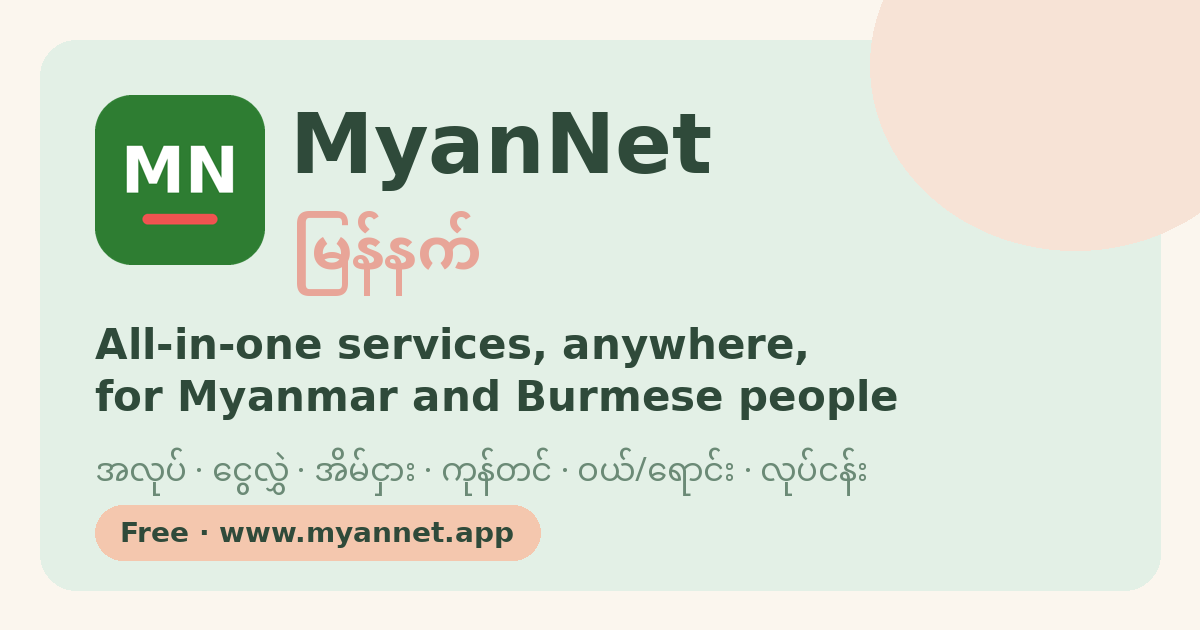
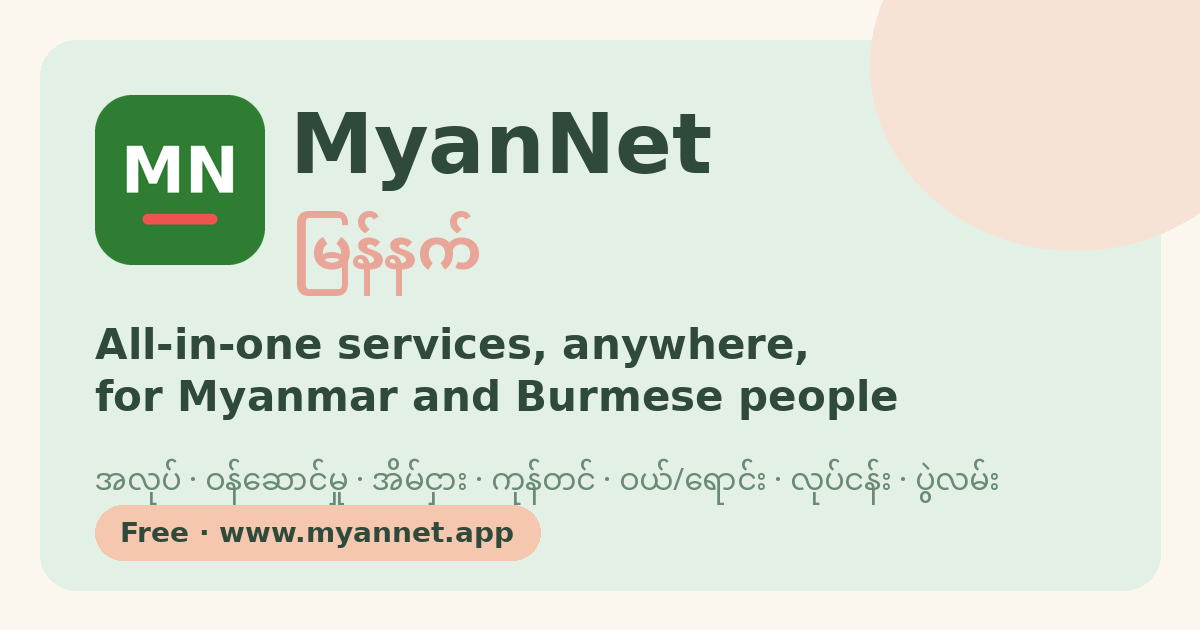
Replace Hundi with Services, add Community/Events, retire kyat rates
- New pillars: services (ဝန်ဆောင်မှု) and events (ပွဲလမ်း); hundi removed
- Rates ticker, board, admin form and /api/rates removed; /rates redirects home
- Preview card and Facebook cover updated

Claude-Session: https://claude.ai/code/session_01Qz7Ga2ARQCafnsXr2KAzox

Changed region(s): [[0.0617, 0.6937, 0.8325, 0.8143]]

diff --git a/app/page.tsx b/app/page.tsx
@@ -13,26 +13,25 @@ import Zayat from "@/components/Zayat";
 import Share from "@/components/Share";
 import Profile from "@/components/Profile";
 import Latest, { NewBanner } from "@/components/Latest";
-import { RatesBoard, RatesTicker } from "@/components/Rates";
 import { THEME } from "@/components/ui";
 import { countryOptions, flag, nameOf } from "@/lib/countries";
 
 const T = {
   en: {
     appName:"MyanNet", appSub:"မြန်နက် · All-in-one services, anywhere, for Myanmar and Burmese people", beta:"BETA",
-    tagline:"The all-in-one platform for Burmese/Myanmar communities worldwide — find work, send money home, rent a room, ship goods, and buy & sell within a trusted community.",
+    tagline:"The all-in-one platform for Burmese/Myanmar communities worldwide — find work, find services, rent a room, ship goods, buy & sell, and share community events — all in one trusted place.",
     vision:"Connecting Myanmar/Burmese communities living and working abroad with their loved ones at home, and vice versa.",
     visionTitle:"🌏 Our Vision", whoTitle:"Who MyanNet Serves",
-    pillars:["Help Wanted","Hundi / Send Money","Rent","Cargo / Hand Carry","Buy / Sell Goods","Businesses"],
-    pillarIcons:["💼","💸","🏠","✈","🛍","🏪"],
-    pillarDesc:["Find work or post openings across all countries","Send money home through trusted community agents","Find or offer housing in the Burmese community","Hand-carry goods between countries — trusted travelers","Buy & sell within the trusted Burmese community","Find Burmese-owned businesses, shops & services"],
-    who:[{e:"🍣",t:"Burmese Sushi Workers",d:"In US restaurants, grocery stores & catering"},{e:"🏭",t:"Factory & Construction Workers",d:"In Thailand, Malaysia, Korea & Japan"},{e:"🏪",t:"Small Business Owners",d:"Restaurants, shops & services in diaspora"},{e:"✈",t:"New Arrivals",d:"Need housing, work & community fast"},{e:"💰",t:"Families Back Home",d:"Receiving remittances from abroad"},{e:"🌏",t:"Cross-Border Travelers",d:"Hand-carrying goods between countries"}],
+    pillars:["Help Wanted","Services","Rent","Cargo / Hand Carry","Buy / Sell Goods","Businesses","Community / Events"],
+    pillarIcons:["💼","🛠","🏠","✈","🛍","🏪","🎉"],
+    pillarDesc:["Find work or post openings across all countries","Translators, documents, tax, phone, travel, repairs & more","Find or offer housing in the Burmese community","Hand-carry goods between countries — trusted travelers","Buy & sell within the trusted Burmese community","Find Burmese-owned businesses, shops & services","Festivals, temple & community events, meetups and classes"],
+    who:[{e:"🍣",t:"Burmese Sushi Workers",d:"In US restaurants, grocery stores & catering"},{e:"🏭",t:"Factory & Construction Workers",d:"In Thailand, Malaysia, Korea & Japan"},{e:"🏪",t:"Small Business Owners",d:"Restaurants, shops & services in diaspora"},{e:"✈",t:"New Arrivals",d:"Need housing, work & community fast"},{e:"💰",t:"Families Back Home",d:"Staying connected with loved ones abroad"},{e:"🌏",t:"Cross-Border Travelers",d:"Hand-carrying goods between countries"}],
     findWork:"Find Work", hireWorkers:"Hire Workers", allPosts:"All", jobsAvail:"🏪 Jobs Available", seekWork:"👷 Seeking Work",
     allRooms:"All", roomsAvail:"🏠 Available", seekRoom:"🔍 Seeking",
     allCargo:"All", canCarry:"✈ Can Carry", needCarry:"📦 Need Carry",
-    postJob:"Post Job", postAgent:"Register as Agent", postRental:"Post Rental", postCarry:"Post Carry Offer", postItem:"Post Item",
+    postJob:"Post Job", postAgent:"Post a Service", postEvent:"Post an Event", postRental:"Post Rental", postCarry:"Post Carry Offer", postItem:"Post Item",
     contactFb:"💬 Contact on Facebook", contactViber:"📱 WhatsApp / Viber", msgSeller:"💬 Message Seller",
-    hundiNotice:"⚠ Community Notice: Hundi is an informal trust-based transfer system widely used by Myanmar migrants. Agents are community-verified. Always use known, reviewed agents. MyanNet does not handle funds directly.",
+    servicesNotice:"🛠 Find Burmese-speaking help — translators, document & form help, tax preparers, phone shops, travel agents, repairs and more. Check reviews and agree on the price first. MyanNet does not handle money.", eventsNotice:"🎉 Festivals, temple and community events, meetups, classes and sports in Myanmar communities abroad. Share your event free.",
     cargoNotice:"✈ Hand Carry Network: Travelers with spare baggage space offer to carry goods between countries. Always meet in person. Community trust is everything.",
     rateCalc:"💱 Quick Rate Calculator", from:"From", amount:"Amount", communityAgents:"🤝 Community Agents",
     example:"📌 Example",examplesNote:"📌 Examples below show what posts look like — they are not real people or businesses. Real community posts appear above.",verified:"✅ Verified", pending:"⏳ Pending", reviews:"reviews", rate:"Rate", fee:"Fee", dailyLimit:"Daily Limit",
@@ -43,24 +42,24 @@ const T = {
     joinFb:"Follow MyanNet on Facebook", comingSoon:"Full posting system coming soon! For now, join our Facebook group:",
     goFb:"🌐 Go to Facebook Group", close:"Close", services:"Services", countries:"Countries", contact:"Contact & Community", privacy:"Privacy Policy", terms:"Terms of Use", about:"About",
     signIn:"Sign in to your account", continueWithFb:"Continue with Facebook", or:"or", phone:"Phone Number", sendOTP:"Send OTP Code", verifyCode:"Verify Code", changePhone:"Change phone number", emailAddr:"Email Address", password:"Password", signingIn:"Signing in…", sending:"Sending…", verifying:"Verifying…", connecting:"Connecting…",
-    iAm:"I am a…", worker:"👷 Worker / Job Seeker", business:"🏪 Business Owner", hundiAgent:"💸 Hundi Agent", other:"🌏 Other", country:"Country", registerNow:"Register Now", noSpam:"We never share your info. No spam, ever.",
+    iAm:"I am a…", worker:"👷 Worker / Job Seeker", business:"🏪 Business Owner", hundiAgent:"🛠 Service Provider", other:"🌏 Other", country:"Country", registerNow:"Register Now", noSpam:"We never share your info. No spam, ever.",
     registered:"You're registered!", thankyou:"Thank you for joining MyanNet. We'll be in touch soon with updates!", bySigningIn:"By signing in, you agree to our Terms of Use and Privacy Policy",
   },
   mm: {
     appName:"မြန်နက်", appSub:"MyanNet · မည်သည့်နေရာမဆို မြန်မာပြည်သူများအတွက် ဝန်ဆောင်မှုများ", beta:"ဘီတာ",
-    tagline:"ကမ္ဘာတစ်ဝှမ်းရှိ မြန်မာ/ဗမာ လူ့အဖွဲ့အစည်းများအတွက် စုံလင်သောပလက်ဖောင်း — အလုပ်ရှာ၊ အိမ်သို့ငွေလွှဲ၊ အခန်းငှား၊ ကုန်ပို့နှင့် ယုံကြည်စိတ်ချရသော အသိုင်းအဝိုင်းအတွင်း ဝယ်/ရောင်း နိုင်ပါတယ်။",
+    tagline:"ကမ္ဘာတစ်ဝှမ်းရှိ မြန်မာ/ဗမာ လူ့အဖွဲ့အစည်းများအတွက် စုံလင်သောပလက်ဖောင်း — အလုပ်ရှာ၊ ဝန်ဆောင်မှုရှာ၊ အခန်းငှား၊ ကုန်ပို့၊ အသိုင်းအဝိုင်း ပွဲလမ်းများနှင့် ယုံကြည်စိတ်ချရသော အသိုင်းအဝိုင်းအတွင်း ဝယ်/ရောင်း နိုင်ပါတယ်။",
     vision:"နိုင်ငံခြားတွင် အလုပ်လုပ်/နေထိုင်နေသော မြန်မာများနှင့် ဒေသတွင်းရှိ မိသားစု မိတ်ဆွေများအတွက်/ကို  ချိတ်ဆက်ပေးမည့် — နှစ်ဦးနှစ်ဖက်/အပြန်အလှန် အကျိုးတူ",
     visionTitle:"🌏 ကျွန်ုပ်တို့၏ မျှော်မှန်းချက်", whoTitle:"မြန်နက် မည်သူမဆို",
-    pillars:["အလုပ်အကိုင်","ဟွန်ဒီ / ငွေလွှဲ","အိမ်ငှား","ကုန်တင်ဆောင်","ဝယ်/ရောင်း ပစ္စည်းများ","လုပ်ငန်းများ"],
-    pillarIcons:["💼","💸","🏠","✈","🛍","🏪"],
-    pillarDesc:["နိုင်ငံတကာတွင် အလုပ်ရှာဖွေ သို့မဟုတ် ဖော်ပြရန်","ယုံကြည်ရသော ကိုယ်စားလှယ်များ/agentများ မှတစ်ဆင့် ငွေလွှဲပေးပို့ရန်","မြန်မာ့လူ့အဖွဲ့အစည်းအတွင်း အိမ်ရှာဖွေ သို့မဟုတ် ငှားရမ်းရန်","နိုင်ငံများကြားတွင် ကိုယ်ထည်ဆောင်ပေးသောဝန်ဆောင်မှု","ယုံကြည်ရသောအသိုင်းအဝိုင်းအတွင်း ဝယ်ရောင်းရန်","မြန်မာလုပ်ငန်းများ၊ ဆိုင်များနှင့် ဝန်ဆောင်မှုများ ရှာဖွေရန်"],
-    who:[{e:"🍣",t:"ဆူရှီ သမားများအတွက်",d:"အမေရိကန်ရှိ စားသောက်ဆိုင်နှင့်လိုအပ်တာများ"},{e:"🏭",t:"စက်ရုံနှင့် ဆောက်လုပ်ရေး",d:"ထိုင်း၊ မလေးရှား၊ ကိုရီးယား၊ ဂျပန်တွင်"},{e:"🏪",t:"လုပ်ငန်းရှင်များ",d:"ပြည်ပရှိ စားသောက်ဆိုင်၊ ဆိုင်ခန်းနှင့် ဝန်ဆောင်မှုများ"},{e:"✈",t:"အသစ်ရောက်ရှိသူများ",d:"အိမ်ရာ၊ အလုပ်နှင့် အသိုင်းအဝိုင်း လိုအပ်သူများ"},{e:"💰",t:"မြန်မာပြည်ရှိ မိသားစု",d:"ပြည်ပမှ ငွေလွှဲလက်ခံသူများ"},{e:"🌏",t:"နိုင်ငံဖြတ်ကျော်ခရီးသည်",d:"နိုင်ငံများကြားတွင် ကုန်ပစ္စည်းဆောင်ဆောင်သူများ"}],
+    pillars:["အလုပ်အကိုင်","ဝန်ဆောင်မှု","အိမ်ငှား","ကုန်တင်ဆောင်","ဝယ်/ရောင်း ပစ္စည်းများ","လုပ်ငန်းများ","ပွဲလမ်း / အသိုင်းအဝိုင်း"],
+    pillarIcons:["💼","🛠","🏠","✈","🛍","🏪","🎉"],
+    pillarDesc:["နိုင်ငံတကာတွင် အလုပ်ရှာဖွေ သို့မဟုတ် ဖော်ပြရန်","ဘာသာပြန်၊ စာရွက်စာတမ်း၊ အခွန်၊ ဖုန်း၊ ခရီးသွား၊ ပြုပြင်ရေး စသည်","မြန်မာ့လူ့အဖွဲ့အစည်းအတွင်း အိမ်ရှာဖွေ သို့မဟုတ် ငှားရမ်းရန်","နိုင်ငံများကြားတွင် ကိုယ်ထည်ဆောင်ပေးသောဝန်ဆောင်မှု","ယုံကြည်ရသောအသိုင်းအဝိုင်းအတွင်း ဝယ်ရောင်းရန်","မြန်မာလုပ်ငန်းများ၊ ဆိုင်များနှင့် ဝန်ဆောင်မှုများ ရှာဖွေရန်","ပွဲတော်များ၊ ဘုန်းကြီးကျောင်းနှင့် အသိုင်းအဝိုင်း ပွဲများ၊ တွေ့ဆုံပွဲ၊ သင်တန်းများ"],
+    who:[{e:"🍣",t:"ဆူရှီ သမားများအတွက်",d:"အမေရိကန်ရှိ စားသောက်ဆိုင်နှင့်လိုအပ်တာများ"},{e:"🏭",t:"စက်ရုံနှင့် ဆောက်လုပ်ရေး",d:"ထိုင်း၊ မလေးရှား၊ ကိုရီးယား၊ ဂျပန်တွင်"},{e:"🏪",t:"လုပ်ငန်းရှင်များ",d:"ပြည်ပရှိ စားသောက်ဆိုင်၊ ဆိုင်ခန်းနှင့် ဝန်ဆောင်မှုများ"},{e:"✈",t:"အသစ်ရောက်ရှိသူများ",d:"အိမ်ရာ၊ အလုပ်နှင့် အသိုင်းအဝိုင်း လိုအပ်သူများ"},{e:"💰",t:"မြန်မာပြည်ရှိ မိသားစု",d:"ပြည်ပရှိ ချစ်ရသူများနှင့် ဆက်သွယ်နေသူများ"},{e:"🌏",t:"နိုင်ငံဖြတ်ကျော်ခရီးသည်",d:"နိုင်ငံများကြားတွင် ကုန်ပစ္စည်းဆောင်ဆောင်သူများ"}],
     findWork:"အလုပ်ရှာ", hireWorkers:"အလုပ်သမားခေါ်", allPosts:"အားလုံး", jobsAvail:"🏪 အလုပ်ရှိသည်", seekWork:"👷 အလုပ်ရှာနေသည်",
     allRooms:"အားလုံး", roomsAvail:"🏠 ငှားရမ်းရန်ရှိ", seekRoom:"🔍 အိမ်ရှာနေသည်",
     allCargo:"အားလုံး", canCarry:"✈ ဆောင်ပေးနိုင်", needCarry:"📦 ဆောင်ပေးမည့်သူရှာ",
-    postJob:"အလုပ်ဖော်ပြ", postAgent:"ကိုယ်စားလှယ်မှတ်ပုံတင်", postRental:"အိမ်ငှားဖော်ပြ", postCarry:"ဆောင်ဆောင်ဖော်ပြ", postItem:"ပစ္စည်းရောင်းဖော်ပြ",
+    postJob:"အလုပ်ဖော်ပြ", postAgent:"ဝန်ဆောင်မှု တင်ရန်", postEvent:"ပွဲ တင်ရန်", postRental:"အိမ်ငှားဖော်ပြ", postCarry:"ဆောင်ဆောင်ဖော်ပြ", postItem:"ပစ္စည်းရောင်းဖော်ပြ",
     contactFb:"💬 Facebook မှ ဆက်သွယ်", contactViber:"📱 WhatsApp / Viber", msgSeller:"💬 ရောင်းသူကို မက်ဆေ့ပို့",
-    hundiNotice:"⚠ ဟွန်ဒီသည် မြန်မာ့ရွှေ့ပြောင်းသူများ အကြားတွင် ကျယ်ကျယ်ပြန့်ပြန့် အသုံးပြုသော ယုံကြည်မှုအခြေခံ ငွေလွှဲစနစ်ဖြစ်သည်။ ကိုယ်စားလှယ်များကို/agentများ စစ်ဆေးအတည်ပြုမည့်။",
+    servicesNotice:"🛠 မြန်မာလို ပြောနိုင်သော ဝန်ဆောင်မှုများ — ဘာသာပြန်၊ စာရွက်စာတမ်း/ဖောင်ဖြည့်၊ အခွန်၊ ဖုန်းဆိုင်၊ ခရီးသွား၊ ပြုပြင်ရေး စသည်။ သုံးသပ်ချက်များ စစ်ပြီး ဈေးနှုန်းကို ကြိုတင် သဘောတူပါ။ မြန်နက်သည် ငွေကြေး မကိုင်တွယ်ပါ။", eventsNotice:"🎉 ပြည်ပရှိ မြန်မာ အသိုင်းအဝိုင်း၏ ပွဲတော်များ၊ ဘုန်းကြီးကျောင်း ပွဲများ၊ တွေ့ဆုံပွဲ၊ သင်တန်းနှင့် အားကစားများ။ သင့်ပွဲကို အခမဲ့ တင်ပါ။",
     cargoNotice:"✈ ကိုယ်ထည်ဆောင်ကွန်ရက်: ခရီးသွားများသည် ထားခဲ့သောဘက်ဂေ့နေရာကို ကုန်ပစ္စည်းများ ဆောင်ဆောင်ပေးရန် ကမ်းလှမ်းသည်။",
     rateCalc:"💱 နှုန်းထားတွက်ချက်မှု", from:"မှ", amount:"ပမာဏ", communityAgents:"🤝 အသိုင်းအဝိုင်း ကိုယ်စားလှယ်များ",
     example:"📌 နမူနာ",examplesNote:"📌 အောက်ပါတို့သည် ပို့စ်ပုံစံ နမူနာများသာ ဖြစ်ပြီး လူ သို့မဟုတ် လုပ်ငန်း အစစ်အမှန် မဟုတ်ပါ။ အသိုင်းအဝိုင်းမှ တကယ့်ပို့စ်များကို အပေါ်တွင် ပြသထားသည်။",verified:"✅ အတည်ပြုပြီး", pending:"⏳ စောင့်ဆိုင်းဆဲ", reviews:"သုံးသပ်ချက်", rate:"နှုန်းထား", fee:"ကြေးငွေ", dailyLimit:"နေ့စဉ်ကန့်သတ်",
@@ -71,7 +70,7 @@ const T = {
     joinFb:"Facebook တွင် မြန်နက်ကို Follow လုပ်ပါ", comingSoon:"မကြာမီ ဖော်ပြနိုင်သောစနစ် ရောက်ရှိလာမည်! ယခုအချိန်တွင် Facebook အုပ်စုမှတစ်ဆင့် ဖော်ပြပါ:",
     goFb:"🌐 Facebook အုပ်စုသို့သွား", close:"ပိတ်", services:"ဝန်ဆောင်မှုများ", countries:"နိုင်ငံများ", contact:"ဆက်သွယ်ရန်", privacy:"မူဝါဒ", terms:"အသုံးပြုသည့်စည်းမျဉ်း", about:"အကြောင်း",
     signIn:"သင်၏အကောင့်သို့ ဝင်ရောက်ပါ", continueWithFb:"Facebook ဖြင့် ဆက်လက်မည်", or:"သို့မဟုတ်", phone:"ဖုန်းနံပါတ် (WhatsApp / Viber)", sendOTP:"OTP ကုဒ် ပို့မည်", verifyCode:"အတည်ပြုမည်", changePhone:"ဖုန်းနံပါတ် ပြောင်းမည်", emailAddr:"အီးမေးလ် လိပ်စာ", password:"စကားဝှက်", signingIn:"ဝင်နေသည်…", sending:"ပို့နေသည်…", verifying:"စစ်ဆေးနေသည်…", connecting:"ချိတ်ဆက်နေသည်…",
-    iAm:"သင်သည် ဘာလုပ်သနည်း?", worker:"👷 အလုပ်သမား", business:"🏪 လုပ်ငန်းရှင်", hundiAgent:"💸 ဟွန်ဒီ ကိုယ်စားလှယ်", other:"🌏 အခြား", country:"နိုင်ငံ", registerNow:"မှတ်ပုံတင်မည်", noSpam:"သင့်အချက်အလက်ကို ကျွန်ုပ်တို့ မျှဝေမည်မဟုတ်ပါ",
+    iAm:"သင်သည် ဘာလုပ်သနည်း?", worker:"👷 အလုပ်သမား", business:"🏪 လုပ်ငန်းရှင်", hundiAgent:"🛠 ဝန်ဆောင်မှုပေးသူ", other:"🌏 အခြား", country:"နိုင်ငံ", registerNow:"မှတ်ပုံတင်မည်", noSpam:"သင့်အချက်အလက်ကို ကျွန်ုပ်တို့ မျှဝေမည်မဟုတ်ပါ",
     registered:"မှတ်ပုံတင်ပြီးပါပြီ!", thankyou:"မြန်နက်တွင် ပါဝင်ကြောင်း ကျေးဇူးတင်ပါသည်။", bySigningIn:"ဝင်ရောက်ခြင်းဖြင့် ကျွန်ုပ်တို့၏ အသုံးပြုသည့်စည်းမျဉ်းများကို သဘောတူသည်",
   }
 };
@@ -83,13 +82,6 @@ const JOBS=[
   {id:4,type:"seek",title:"Any Kitchen Work Available",titleMM:"မီးဖိုချောင်အလုပ် မည်သည်မဆို",name:"Ei Ei Phyu",location:"Kuala Lumpur 🇲🇾",pay:"Negotiable",avail:"Available This Week",skills:["Cleaning","Prep","Delivery"],desc:"New arrival, hardworking, need work urgently.",descMM:"အသစ်ရောက်ရှိသူ၊ ကြိုးစားသော၊ အလုပ်အမြန်လိုအပ်သည်။"},
   {id:5,type:"offer",title:"Sushi Counter Helper x2",titleMM:"ဆူရှီ လုပ်ငန်းအကူ x2",employer:"Sakura Market",location:"Tokyo 🇯🇵",pay:"¥1,200/hr",urgent:true,skills:["Rolling","Cashier","Packaging"],desc:"Grocery counter, part-time ok.",descMM:"ကြယ်မှတ်ဆိုင်ကောင်တာ၊ အချိန်ပိုင်းလက်ခံသည်။"},
   {id:6,type:"seek",title:"Factory or Construction Work",titleMM:"စက်ရုံ သို့ ဆောက်လုပ်ရေးအလုပ်",name:"Zaw Lin",location:"Penang 🇲🇾",pay:"RM 1,500+/mo",avail:"Available Now",skills:["Construction","Driving","Loading"],desc:"Strong worker, 5 years factory experience.",descMM:"ကြံ့ခိုင်သောအလုပ်သမား၊ စက်ရုံတွင် ၅ နှစ်အတွေ့အကြုံ။"},
-];
-const HUNDI=[
-  {id:1,agent:"Ko Thura (Trusted Agent)",from:"🇺🇸 USA",to:"🇲🇲 Myanmar",rate:"2,100 MMK",fee:"2%",limit:"$5,000/day",phone:"+1-713-555-0101",verified:true,reviews:142,desc:"15 years in Houston. Same-day delivery.",descMM:"Houston တွင် ၁၅ နှစ်ရှိ။ တူညီသောနေ့ ငွေရောက်သည်။"},
-  {id:2,agent:"Ma Myat Noe",from:"🇹🇭 Thailand",to:"🇲🇲 Myanmar",rate:"870 MMK per ฿",fee:"1.5%",limit:"฿50,000/day",phone:"+66-81-555-0202",verified:true,reviews:89,desc:"Bangkok agent, 8 years trusted.",descMM:"Bangkok ကိုယ်စားလှယ်၊ ၈ နှစ်ကြာ ယုံကြည်ရသည်။"},
-  {id:3,agent:"Ko Zaw Win",from:"🇲🇾 Malaysia",to:"🇲🇲 Myanmar",rate:"450 MMK per RM",fee:"2%",limit:"RM 10,000/day",phone:"+60-12-555-0303",verified:true,reviews:67,desc:"KL & Penang. Community vouched.",descMM:"KL နှင့် Penang။ အသိုင်းအဝိုင်းမှ အထောက်အကူပြု။"},
-  {id:4,agent:"Daw Khin Khin",from:"🇯🇵 Japan",to:"🇲🇲 Myanmar",rate:"13.5 MMK per ¥",fee:"2.5%",limit:"¥200,000/day",phone:"+81-90-555-0404",verified:false,reviews:23,desc:"Tokyo agent, review pending.",descMM:"Tokyo ကိုယ်စားလှယ်၊ စစ်ဆေးနေဆဲ။"},
-  {id:5,agent:"Ko Naing (Singapore)",from:"🇸🇬 Singapore",to:"🇲🇲 Myanmar",rate:"1,550 MMK per S$",fee:"1.8%",limit:"S$8,000/day",phone:"+65-9555-0505",verified:true,reviews:55,desc:"Fast, discreet, reliable.",descMM:"မြန်ဆန်၊ ယုံကြည်ရနိုင်သည်။"},
 ];
 const RENTALS=[
   {id:1,type:"offer",title:"Shared Room Available",titleMM:"အခန်းရှယ်ရန် ရှိသည်",location:"Houston, TX 🇺🇸",price:"$450/mo",rooms:"1 bed in shared house",burmese:true,desc:"Bills included. Sushi workers welcome.",descMM:"ဘီလ်ပါဝင်သည်။ ဆူရှီအလုပ်သမားများကြိုဆိုသည်။"},
@@ -117,8 +109,8 @@ const GOODS=[
   {id:8,title:"Sewing Machine — Singer",titleMM:"ဆင်ဂျာ ချုပ်စက်",cat:"🪡 Equipment",price:"RM 350",loc:"Penang 🇲🇾",seller:"Ma Win",img:"🧵",desc:"Works perfectly, moving sale.",descMM:"ကောင်းစွာအလုပ်လုပ်သည်"},
 ];
 
-const PILLARS=["jobs","hundi","rent","cargo","goods","biz"];
-const COLORS={jobs:"#c0392b",hundi:"#7c3aed",rent:"#0891b2",cargo:"#d97706",goods:"#16a34a",biz:"#9d174d"};
+const PILLARS=["jobs","services","rent","cargo","goods","biz","events"];
+const COLORS={jobs:"#c0392b",services:"#7c3aed",events:"#4d7c0f",rent:"#0891b2",cargo:"#d97706",goods:"#16a34a",biz:"#9d174d"};
 const avCol=a=>a==="Available Now"?"#16a34a":a==="Available This Week"?"#d97706":"#6366f1";
 const Tag=({bg="#f3f4f6",c="#374151",children})=><span style={{background:bg,color:c,borderRadius:20,padding:"3px 10px",fontSize:11,fontWeight:700,display:"inline-block",margin:"2px"}}>{children}</span>;
 const FbBtn=({label,style:s})=><button style={{width:"100%",background:"#1877f2",color:"#fff",border:"none",borderRadius:10,padding:"9px",fontWeight:700,cursor:"pointer",fontSize:13,marginTop:8,...s}}>{label}</button>;
@@ -271,7 +263,6 @@ export default function App(){
               <span style={{fontWeight:800,fontSize:12,color:"#8d5a2b",lineHeight:1.2}}>{lang==="mm"?"ဟစ်တိုင် (ဆွေးနွေးရာ)":"Podium (discussion)"}</span>
             </div>
           </div>
-          <RatesTicker lang={lang} onOpen={()=>{setTab("hundi");window.scrollTo(0,0);}}/>
           <div id="mn-latest"><Latest onOpen={p=>{setTab(p);setFilter("all");window.scrollTo(0,0);}}/></div>
           <div style={{textAlign:"center",fontSize:12,color:"#6b7a6c",marginTop:8}}>
             {t.vision} · <a onClick={()=>setEmailModal(true)} style={{color:THEME.red,fontWeight:700,cursor:"pointer"}}>✅ {t.registerInterest}</a> · <a href="https://www.facebook.com/profile.php?id=61595978411240" target="_blank" rel="noreferrer" style={{color:"#1877f2",fontWeight:700}}>👥 {t.joinFb}</a>
@@ -287,7 +278,7 @@ export default function App(){
             <div style={{opacity:.85,fontSize:13,marginTop:2}}>{t.pillarDesc[pillarIdx]}</div>
           </div>
           <button onClick={()=>openPost(tab)} style={{background:"rgba(255,255,255,0.22)",color:"#fff",border:"2px solid rgba(255,255,255,0.45)",borderRadius:22,padding:"9px 20px",fontWeight:800,cursor:"pointer",fontSize:13}}>
-            + {tab==="jobs"?t.postJob:tab==="hundi"?t.postAgent:tab==="rent"?t.postRental:tab==="cargo"?t.postCarry:tab==="biz"?s3.postFree.replace("+ ",""):t.postItem}
+            + {tab==="jobs"?t.postJob:tab==="services"?t.postAgent:tab==="events"?t.postEvent:tab==="rent"?t.postRental:tab==="cargo"?t.postCarry:tab==="biz"?s3.postFree.replace("+ ",""):t.postItem}
           </button>
         </div>
       )}
@@ -321,34 +312,16 @@ export default function App(){
         </div>
       </div>}
 
-      {/* HUNDI */}
-      {tab==="hundi"&&<div style={{maxWidth:900,margin:"0 auto",padding:"18px 16px"}}>
-        <div style={{background:"#fef3c7",borderRadius:12,padding:13,marginBottom:18,border:"1px solid #f59e0b",fontSize:12,color:"#92400e"}}>{t.hundiNotice}</div>
-        <RatesBoard lang={lang}/>
-        <CommunityListings pillar="hundi" color={COLORS.hundi}/>
-        <div style={{background:"#f3f4f6",borderRadius:10,padding:"9px 12px",margin:"6px 0 12px",fontSize:12,color:"#555"}}>{t.examplesNote}</div>
-        <div style={{fontWeight:800,fontSize:15,marginBottom:12}}>{t.communityAgents}</div>
-        <div style={{display:"grid",gridTemplateColumns:"repeat(auto-fill,minmax(270px,1fr))",gap:14}}>
-          {HUNDI.map(h=>(
-            <Card key={h.id} topColor="#ddd">
-              <div style={{display:"flex",justifyContent:"space-between",alignItems:"center",marginBottom:6}}>
-                <div style={{fontWeight:800,fontSize:14}}>{h.agent}</div>
-                <Tag bg="#e5e7eb" c="#374151">{t.example}</Tag>
-              </div>
-              <div style={{fontSize:12,color:"#888",marginBottom:8}}>{h.from} → {h.to}</div>
-              <div style={{display:"grid",gridTemplateColumns:"1fr 1fr 1fr",gap:6,marginBottom:10}}>
-                {[[t.rate,h.rate+" MMK"],[t.fee,h.fee],[t.dailyLimit,h.limit]].map(([l,v])=>(
-                  <div key={l} style={{background:"#faf5ff",borderRadius:8,padding:"7px",textAlign:"center"}}>
-                    <div style={{fontSize:9,color:"#888"}}>{l}</div>
-                    <div style={{fontWeight:700,fontSize:11,color:"#5b21b6"}}>{v}</div>
-                  </div>
-                ))}
-              </div>
-              <div style={{fontSize:12,color:"#555",marginBottom:6,lineHeight:1.5}}>{tx(h.desc,h.descMM)}</div>
-                            <ViberBtn label={t.contactViber}/>
-            </Card>
-          ))}
-        </div>
+      {/* SERVICES */}
+      {tab==="services"&&<div style={{maxWidth:1000,margin:"0 auto",padding:"18px 16px"}}>
+        <div style={{background:"#f5f3ff",borderRadius:12,padding:13,marginBottom:18,border:"1px solid #ddd6fe",fontSize:12,color:"#5b21b6"}}>{t.servicesNotice}</div>
+        <CommunityListings pillar="services" color={COLORS.services}/>
+      </div>}
+
+      {/* EVENTS */}
+      {tab==="events"&&<div style={{maxWidth:1000,margin:"0 auto",padding:"18px 16px"}}>
+        <div style={{background:"#f7fee7",borderRadius:12,padding:13,marginBottom:18,border:"1px solid #d9f99d",fontSize:12,color:"#3f6212"}}>{t.eventsNotice}</div>
+        <CommunityListings pillar="events" color={COLORS.events}/>
       </div>}
 
       {/* RENT */}

diff --git a/app/admin/page.tsx b/app/admin/page.tsx
@@ -6,30 +6,6 @@ import { LIVE } from "@/lib/supabase";
 
 // Admin page: reported listings and reviews, with remove / dismiss buttons.
 // Only people with is_admin = true in Supabase can read reports (enforced by the database).
-// Admin: set today's kyat rates per US dollar (other currencies are worked out automatically).
-function FxForm() {
-  const [market, setMarket] = useState("");
-  const [hundi, setHundi] = useState("");
-  const [note, setNote] = useState("");
-  const [msg, setMsg] = useState("");
-  const [when, setWhen] = useState("");
-  useEffect(() => { store.getFx().then((f) => { if (f) { setMarket(f.usd_mmk_market ? String(f.usd_mmk_market) : ""); setHundi(f.usd_mmk_hundi ? String(f.usd_mmk_hundi) : ""); setNote(f.note || ""); setWhen(new Date(f.updated_at).toLocaleString()); } }); }, []);
-  const inp: React.CSSProperties = { padding: "8px 10px", borderRadius: 8, border: "1px solid #ccc", fontSize: 15, width: 130 };
-  return (
-    <div style={{ background: "#faf5ff", border: "1px solid #ddd6fe", borderRadius: 12, padding: 14, marginBottom: 18 }}>
-      <div style={{ fontWeight: 800, color: "#5b21b6", marginBottom: 6 }}>💱 Kyat rates — 1 US dollar = ? kyat</div>
-      <div style={{ fontSize: 12, color: "#666", marginBottom: 10 }}>Update once a day. The official Central Bank rate updates by itself. Last saved: {when || "never"}</div>
-      <div style={{ display: "flex", gap: 12, flexWrap: "wrap", alignItems: "flex-end" }}>
-        <label style={{ fontSize: 12, fontWeight: 700 }}>Market rate<br /><input style={inp} type="number" value={market} onChange={(e) => setMarket(e.target.value)} placeholder="e.g. 4900" /></label>
-        <label style={{ fontSize: 12, fontWeight: 700, flex: 1, minWidth: 200 }}>Note (optional)<br /><input style={{ ...inp, width: "100%" }} value={note} onChange={(e) => setNote(e.target.value)} placeholder="e.g. Yangon market, morning" /></label>
-        <button style={{ background: "#7c3aed", color: "#fff", border: "none", borderRadius: 8, padding: "10px 16px", fontWeight: 800, cursor: "pointer" }}
-          onClick={async () => { try { await store.setFx(market ? +market : null, null, note); setMsg("✓ Saved — live on the site within an hour"); setWhen(new Date().toLocaleString()); } catch (e) { setMsg((e as Error).message); } }}>Save rates</button>
-      </div>
-      {msg && <div style={{ fontSize: 12, marginTop: 8, color: "#2e7d32" }}>{msg}</div>}
-    </div>
-  );
-}
-
 export default function Admin() {
   const [user, setUser] = useState<store.AppUser | null | undefined>(undefined);
   const [reports, setReports] = useState<store.Report[]>([]);
@@ -61,7 +37,6 @@ export default function Admin() {
         <a href="/" style={{ color: "#1b5e20", fontWeight: 900, textDecoration: "none" }}>← MyanNet</a>
         <h1 style={{ color: "#1b5e20" }}>Admin</h1>
         {user?.is_admin && <Stats />}
-        {user?.is_admin && <FxForm />}
         <h2 style={{ color: "#1b5e20", fontSize: 18 }}>Reports</h2>
         {!LIVE && <p style={{ fontSize: 13, color: "#7a5b00" }}>Demo mode: showing reports made in this browser only.</p>}
         {user === undefined && <p>Loading…</p>}

diff --git a/app/rates/page.tsx b/app/rates/page.tsx
@@ -1,40 +1,6 @@
-import type { Metadata } from "next";
-import { RatesBoard } from "@/components/Rates";
-import Track from "@/components/Track";
+import { redirect } from "next/navigation";
 
-// Shareable rates page. The og:image is the latest rates picture, so a link
-// to www.myannet.app/rates shows the picture as a big preview on Facebook.
-const IMG = "/share/rates-2026-11-24b.jpg";
-
-export const metadata: Metadata = {
-  title: "ယနေ့ ကျပ်ငွေလဲနှုန်း · Kyat market rates | MyanNet မြန်နက်",
-  description: "USD, ဘတ်, ရင်းဂစ်, ဝမ်, ယန်း, ဒါဟမ်… ကျပ်ငွေ ပြင်ပဈေး — နေ့စဉ် အပ်ဒိတ်။ Kyat market exchange rates, updated daily.",
-  openGraph: {
-    title: "ယနေ့ ကျပ်ငွေလဲနှုန်း · Kyat market rates",
-    description: "နေ့စဉ် အပ်ဒိတ် · www.myannet.app",
-    url: "https://www.myannet.app/rates",
-    type: "website",
-    images: [{ url: IMG, width: 1080, height: 1080 }],
-  },
-  twitter: { card: "summary_large_image", images: [IMG] },
-};
-
+// The kyat rates page was retired on Nov 28, 2026; old links go to the home page.
 export default function RatesPage() {
-  return (
-    <main style={{ fontFamily: "system-ui, sans-serif", background: "#f5f7f5", minHeight: "100vh" }}>
-      <Track section="rates" />
-      <div style={{ background: "#2e7d32", color: "#fff", padding: "14px 16px", display: "flex", justifyContent: "space-between", alignItems: "center" }}>
-        <a href="/" style={{ color: "#fff", textDecoration: "none", fontWeight: 800, fontSize: 20 }}>MyanNet မြန်နက်</a>
-        <a href="/" style={{ color: "#fff", fontSize: 14 }}>🏠 Home · ပင်မစာမျက်နှာ</a>
-      </div>
-      <div style={{ maxWidth: 900, margin: "0 auto", padding: "16px" }}>
-        <RatesBoard lang="mm" />
-        <div style={{ textAlign: "center", margin: "18px 0" }}>
-          <a href="/" style={{ display: "inline-block", background: "#2e7d32", color: "#fff", padding: "10px 18px", borderRadius: 8, textDecoration: "none", fontWeight: 700 }}>
-            အလုပ်၊ အခန်းငှား၊ ဝယ်/ရောင်း… MyanNet ကို ကြည့်ရန် →
-          </a>
-        </div>
-      </div>
-    </main>
-  );
+  redirect("/");
 }

diff --git a/lib/i18n.ts b/lib/i18n.ts
@@ -24,7 +24,7 @@ export const S = {
     types: {
       biz: ["🏪", "My business or shop"], ad: ["📣", "An ad or promotion"], card: ["📇", "My contact card"],
       jobs: ["💼", "A job opening or I need work"], rent: ["🏠", "A room or house"],
-      hundi: ["💸", "I'm a money transfer agent"], cargo: ["✈", "Hand-carry offer or request"], goods: ["🛍", "Item to buy or sell"],
+      services: ["🛠", "A service I offer (translation, tax, repairs…)"], events: ["🎉", "A community event"], cargo: ["✈", "Hand-carry offer or request"], goods: ["🛍", "Item to buy or sell"],
     } as Record<string, [string, string]>,
     kindOffer: "Offering", kindSeek: "Looking for",
     title: "Title", titlePh: "e.g. Golden Myanmar Restaurant", desc: "Description", descPh: "What you offer, hours, details…",
@@ -66,7 +66,7 @@ export const S = {
     types: {
       biz: ["🏪", "ကျွန်ုပ်၏ လုပ်ငန်း / ဆိုင်"], ad: ["📣", "ကြော်ငြာ / ပရိုမိုးရှင်း"], card: ["📇", "ဆက်သွယ်ရန်ကတ်"],
       jobs: ["💼", "အလုပ်ခေါ်ခြင်း / အလုပ်ရှာခြင်း"], rent: ["🏠", "အခန်း / အိမ်"],
-      hundi: ["💸", "ငွေလွှဲ ကိုယ်စားလှယ်"], cargo: ["✈", "ပစ္စည်းသယ်ပေးခြင်း / တောင်းဆိုခြင်း"], goods: ["🛍", "ဝယ်/ရောင်း ပစ္စည်း"],
+      services: ["🛠", "ဝန်ဆောင်မှု (ဘာသာပြန်၊ အခွန်၊ ပြုပြင်ရေး…)"], events: ["🎉", "အသိုင်းအဝိုင်း ပွဲ / အစီအစဉ်"], cargo: ["✈", "ပစ္စည်းသယ်ပေးခြင်း / တောင်းဆိုခြင်း"], goods: ["🛍", "ဝယ်/ရောင်း ပစ္စည်း"],
     } as Record<string, [string, string]>,
     kindOffer: "ပေးဆောင်သည်", kindSeek: "ရှာဖွေနေသည်",
     title: "ခေါင်းစဉ်", titlePh: "ဥပမာ — ရွှေမြန်မာ စားသောက်ဆိုင်", desc: "အသေးစိတ်", descPh: "ဝန်ဆောင်မှု၊ ဖွင့်ချိန်၊ အသေးစိတ်…",

diff --git a/app/layout.tsx b/app/layout.tsx
@@ -2,7 +2,7 @@ import type { Metadata, Viewport } from "next";
 import Script from "next/script";
 
 const description =
-  "The all-in-one platform for Burmese/Myanmar communities worldwide — find work, send money home, rent a room, ship goods, and buy & sell within a trusted community.";
+  "The all-in-one platform for Burmese/Myanmar communities worldwide — find work, find services, rent a room, ship goods, buy & sell, and share community events — all in one trusted place.";
 
 export const metadata: Metadata = {
   metadataBase: new URL("https://www.myannet.app"),
@@ -11,12 +11,12 @@ export const metadata: Metadata = {
   applicationName: "MyanNet",
   keywords: [
     "MyanNet", "မြန်နက်", "myannet.app", "Burmese community", "sushi jobs",
-    "hundi", "Burma migrant workers", "Myanmar remittance", "Burmese business directory",
+    "Burmese services", "Burma migrant workers", "Myanmar community events", "Burmese business directory",
   ],
   appleWebApp: { capable: true, title: "MyanNet", statusBarStyle: "default" },
   openGraph: {
     title: "MyanNet | မြန်နက်",
-    description: "Work · Hundi · Rent · Cargo · Trade · Businesses",
+    description: "Jobs · Services · Rent · Cargo · Buy/Sell · Businesses · Events",
     url: "https://www.myannet.app",
     type: "website",
   },

diff --git a/components/Share.tsx b/components/Share.tsx
@@ -6,8 +6,8 @@ const URL_ = "https://www.myannet.app";
 export default function Share({ lang }: { lang: string }) {
   const [copied, setCopied] = useState(false);
   const text = lang === "mm"
-    ? "မြန်နက် — မည်သည့်နေရာမဆို မြန်မာများအတွက် အခမဲ့ ဝန်ဆောင်မှုများ (အလုပ်၊ ငွေလွှဲ၊ အခန်းငှား၊ ပစ္စည်းသယ်၊ အရောင်းအဝယ်)"
-    : "MyanNet — free all-in-one services for Myanmar and Burmese people anywhere (jobs, send money, rooms, hand-carry, buy & sell)";
+    ? "မြန်နက် — မည်သည့်နေရာမဆို မြန်မာများအတွက် အခမဲ့ ဝန်ဆောင်မှုများ (အလုပ်၊ ဝန်ဆောင်မှု၊ အခန်းငှား၊ ပစ္စည်းသယ်၊ အရောင်းအဝယ်၊ ပွဲလမ်း)"
+    : "MyanNet — free all-in-one services for Myanmar and Burmese people anywhere (jobs, services, rooms, hand-carry, buy & sell, events)";
   const enc = encodeURIComponent;
   const links: [string, string, string][] = [
     ["Facebook", "#1877f2", `https://www.facebook.com/sharer/sharer.php?u=${enc(URL_)}`],

diff --git a/components/Stats.tsx b/components/Stats.tsx
@@ -5,7 +5,7 @@ import { flag, nameOf } from "@/lib/countries";
 
 // Admin: who visits MyanNet, from where, how they found it, and what they look at.
 const SRC: Record<string, string> = { facebook: "📘 Facebook", direct: "⌨ Typed / app / no link", google: "🔍 Google", search: "🔍 Other search", telegram: "✈ Telegram", viber: "📱 Viber", whatsapp: "🟢 WhatsApp", instagram: "📷 Instagram", tiktok: "🎵 TikTok", other: "🔗 Other sites" };
-const SEC: Record<string, string> = { home: "🏠 Home", jobs: "💼 Help Wanted", hundi: "💸 Hundi / rates", rent: "🏠 Rent", cargo: "✈ Cargo", goods: "🛍 Buy / Sell", biz: "🏪 Businesses", zayat: "💬 Podium", rates: "💱 Rates page" };
+const SEC: Record<string, string> = { home: "🏠 Home", jobs: "💼 Help Wanted", services: "🛠 Services", events: "🎉 Events", hundi: "💸 Hundi (old)", rent: "🏠 Rent", cargo: "✈ Cargo", goods: "🛍 Buy / Sell", biz: "🏪 Businesses", zayat: "💬 Podium", rates: "💱 Rates page" };
 
 function Bars({ rows, label, value }: { rows: any[]; label: (r: any) => string; value: (r: any) => number }) {
   const max = Math.max(1, ...rows.map(value));

diff --git a/components/Listings.tsx b/components/Listings.tsx
@@ -11,7 +11,7 @@ const KIND_LABEL: Record<string, [string, string]> = {
   offer: ["Offering", "ပေးဆောင်သည်"], seek: ["Looking for", "ရှာဖွေနေသည်"],
   carry: ["Can carry", "သယ်ပေးနိုင်"], need: ["Need carry", "သယ်ပေးသူလို"],
   biz: ["Business", "လုပ်ငန်း"], ad: ["Promotion", "ကြော်ငြာ"], card: ["Contact card", "ဆက်သွယ်ရန်ကတ်"],
-  hundi: ["Agent", "ကိုယ်စားလှယ်"], goods: ["For sale", "ရောင်းရန်"],
+  goods: ["For sale", "ရောင်းရန်"],
 };
 
 const digits = (v: string) => v.replace(/[^\d+]/g, "");
@@ -29,7 +29,7 @@ function contactLinks(c: store.Contact) {
 
 export function ListingCard({ l, color }: { l: store.Listing; color: string }) {
   const { lang } = useApp();
-  const k = KIND_LABEL[l.kind];
+  const k: [string, string] | undefined = l.pillar === "events" ? ["🎉 Event", "🎉 ပွဲ"] : KIND_LABEL[l.kind];
   const [more, setMore] = useState(false);
   const long = (l.description || "").length > 280;
   return (

diff --git a/components/Latest.tsx b/components/Latest.tsx
@@ -7,7 +7,7 @@ import { THEME } from "./ui";
 
 // Home page: newest listings (left) and newest Podium topics (right), compact so the home page fits one screen.
 const SEC: Record<string, [string, string, string, string]> = {
-  jobs: ["💼", "Help Wanted", "အလုပ်အကိုင်", "#c0392b"], hundi: ["💸", "Hundi", "ဟွန်ဒီ", "#7c3aed"],
+  jobs: ["💼", "Help Wanted", "အလုပ်အကိုင်", "#c0392b"], services: ["🛠", "Services", "ဝန်ဆောင်မှု", "#7c3aed"], events: ["🎉", "Event", "ပွဲလမ်း", "#4d7c0f"],
   rent: ["🏠", "Rent", "အိမ်ငှား", "#0891b2"], cargo: ["✈", "Cargo", "ကုန်တင်ဆောင်", "#d97706"],
   goods: ["🛍", "Buy / Sell", "ဝယ်/ရောင်း", "#16a34a"], biz: ["🏪", "Business", "လုပ်ငန်း", "#9d174d"],
 };

diff --git a/components/PostFlow.tsx b/components/PostFlow.tsx
@@ -8,9 +8,9 @@ import { Modal, Btn, inputStyle, THEME } from "./ui";
 
 // Each post type maps to one of the site's sections ("pillars").
 export const TYPE_TO_PILLAR: Record<string, string> = {
-  biz: "biz", ad: "biz", card: "biz", jobs: "jobs", rent: "rent", hundi: "hundi", cargo: "cargo", goods: "goods",
+  biz: "biz", ad: "biz", card: "biz", jobs: "jobs", rent: "rent", services: "services", cargo: "cargo", goods: "goods", events: "events",
 };
-const TYPE_ORDER = ["biz", "ad", "card", "jobs", "rent", "hundi", "cargo", "goods"];
+const TYPE_ORDER = ["biz", "ad", "card", "jobs", "services", "rent", "cargo", "goods", "events"];
 const CONTACT_FIELDS: [keyof store.Contact, string][] = [
   ["facebook", "cFacebook"], ["tiktok", "cTiktok"], ["telegram", "cTelegram"],
   ["viber", "cViber"], ["whatsapp", "cWhatsapp"], ["phone", "cPhone"],

diff --git a/app/terms/page.tsx b/app/terms/page.tsx
@@ -17,7 +17,6 @@ export default function Terms() {
       <h2>Money, jobs and deals</h2>
       <ul>
         <li>MyanNet is a notice board. We do not hold, send or receive money, and we are not part of any deal between users.</li>
-        <li>Hundi and other informal transfers carry real risk. Only use agents you know or who are well reviewed, and follow the laws where you live.</li>
         <li>Check every job offer, agency, landlord and seller yourself. Never pay a fee to get a job before you have checked the employer.</li>
       </ul>
 
